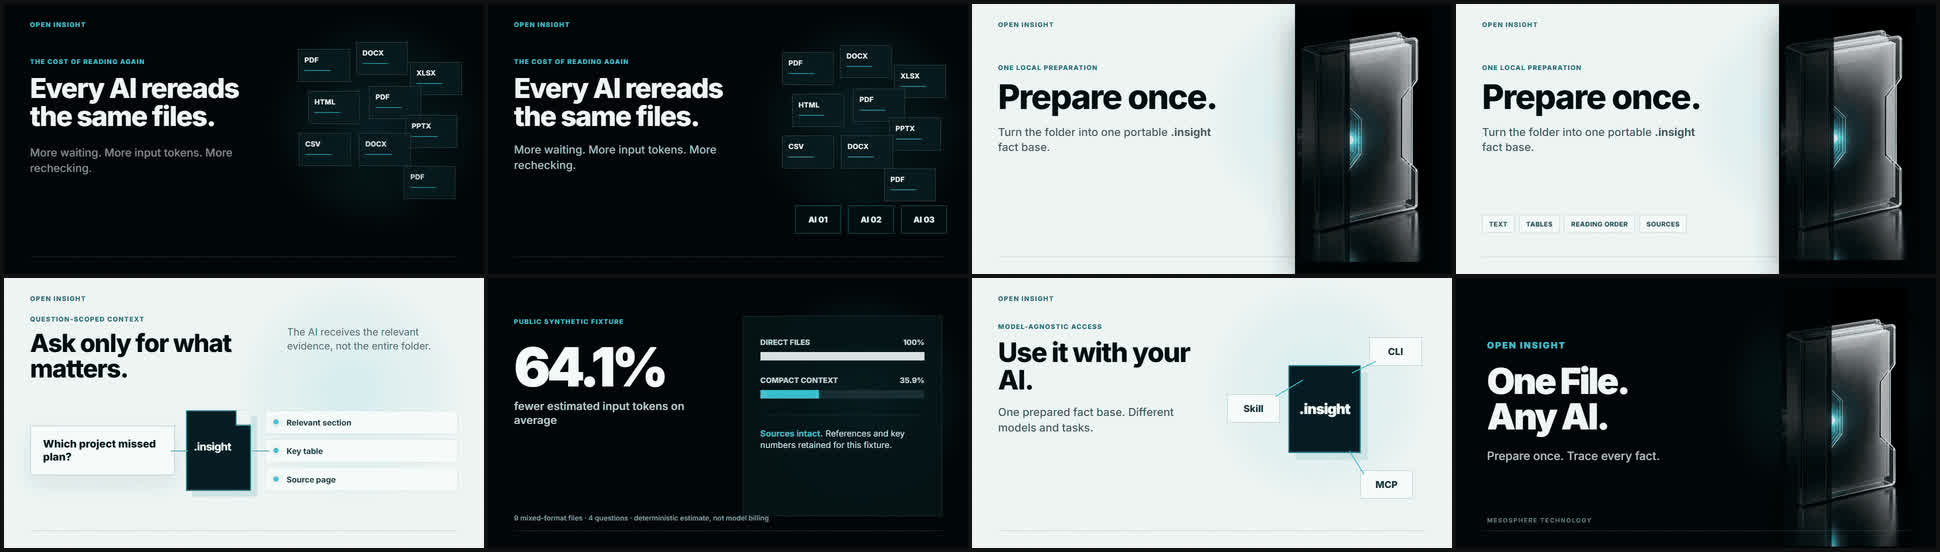
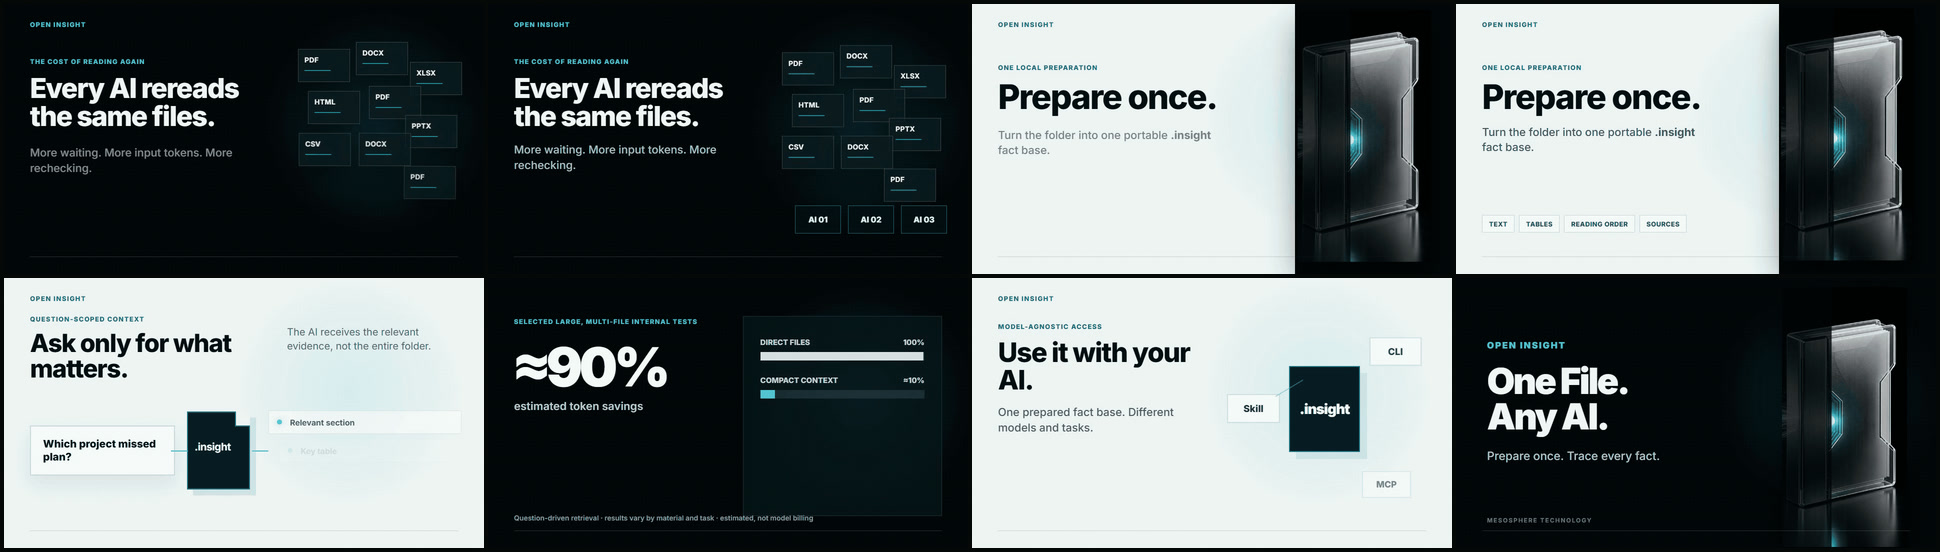
fix: align private alpha token claim

diff --git a/tests/public-core-readme-docs.test.ts b/tests/public-core-readme-docs.test.ts
@@ -54,6 +54,9 @@ describe("public Core English README", () => {
       "run `pip install`",
       "README.zh-CN.md",
       "does not upload source files or call a model on its own",
+      "about 90%",
+      "selected large, multi-file internal tests",
+      "results vary by material and task",
       "64.1% fewer estimated tokens on average",
       "not model billing usage",
       "not a universal savings guarantee",
@@ -80,6 +83,22 @@ describe("public Core English README", () => {
     expect(readme.indexOf("npx @mesospheretech/open-insight")).toBeLessThan(
       readme.indexOf("## The problem it solves")
     );
+  });
+
+  it("keeps the launch-film and public-fixture token statements distinct", async () => {
+    const [readme, demoGuide] = await Promise.all([
+      readPublicReadme(),
+      readFile(path.resolve("docs/public-alpha-demo.md"), "utf8")
+    ]);
+
+    for (const document of [readme, demoGuide]) {
+      expect(document).toContain("selected large, multi-file internal tests");
+      expect(document).toContain("64.1%");
+      expect(document).toContain("not model billing");
+    }
+    expect(readme).toContain("about 90%");
+    expect(demoGuide).toContain("`≈90%`");
+    expect(demoGuide).toContain("separate, narrower benchmark");
   });
 
   it("publishes an independent Chinese Core README instead of private product history", async () => {

diff --git a/docs/public-alpha-demo.md b/docs/public-alpha-demo.md
@@ -51,17 +51,18 @@ Office and PDF files use a stable binary-size heuristic, and the report
 publishes that limitation next to the savings result.
 
 The demo does not prove that an external model will always answer correctly or
-that OCR is complete. A fixed token-savings claim requires larger public
-materials, real tokenizer/API usage, and independently reviewed answer quality.
+that OCR is complete. A universal or independently reproducible benchmark claim
+requires larger public materials, real tokenizer/API usage, and independently
+reviewed answer quality.
 
 ## Visual validation
 
-The repository includes two English-only visual assets generated from the same
-synthetic demo facts:
+The repository includes two English-only visual assets built from product
+visuals and bounded aggregate test statements; they contain no customer material:
 
 - `docs/public/assets/open-insight-alpha-validation.gif`: a 16-second README
   loop covering repeated-reading cost, one-file preparation, targeted evidence
-  retrieval, the bounded public token comparison, and the `One File. Any AI.`
+  retrieval, the bounded launch-film token statement, and the `One File. Any AI.`
   boundary;
 - `docs/public/assets/open-insight-alpha-contact-sheet.jpg`: eight reviewed
   frames from the same 16-second README loop.
@@ -71,3 +72,10 @@ synthetic demo facts:
 The complete MP4 is prepared as a release or launch asset instead of being
 required by the Core runtime. The animation is silent, contains no customer
 material, and does not imply external-model certification.
+
+The GIF's `≈90%` statement matches the international launch film. It refers to
+selected large, multi-file internal tests using question-driven retrieval and is
+an estimated input-token comparison, not model billing or a universal promise;
+results vary by material and task. The reproducible nine-file public fixture
+above remains a separate, narrower benchmark with 64.1% average estimated
+savings across its four fixed questions.

diff --git a/docs/core-oss-alpha-readiness.md b/docs/core-oss-alpha-readiness.md
@@ -92,10 +92,19 @@ Core tests、20 项 Skill/installer tests、2 项 CLI contract tests、密钥扫
 public，`v0.1.0-alpha.3` tag 没有移动。随后在开发提交
 `aea26668a198085ed493aa5d1f0a4d620a26879a` 完成独立英文 GIF 重制：成片为
 960x540、16 秒、10fps，从团队重复读取资料的时间与 token 成本开始，依次展示
-prepare once、按问题读取可追溯证据、公开合成样例的 bounded token proof、
+prepare once、按问题读取可追溯证据、与国际视频一致的 `≈90%` selected
+large, multi-file internal test estimated token statement、
 Skill / CLI / MCP 和 `One File. Any AI.`。同一 GIF 的 8 帧 contact sheet、
 HyperFrames 结构/布局/运动/对比度检查、公开文档测试和密钥扫描均已通过；该媒体
 切片等待同步到下一份仍为 private 的 Core 候选，不改变仓库可见性或 Alpha tag。
+
+同步完成记录：从开发提交 `5a8c5dceb39f9c505e7086d04b287ad7607f2d87`
+生成 170 个 allowlisted 文件，aggregate digest 为
[1 lines of base64/hex data omitted]
+加入生成 manifest 后形成 171 个 Core 跟踪文件。完整公开候选门禁通过后，
+该快照已推送到仍为 private 的 `MesosphereTech/open-insight` `main` 提交
+`522df50c269d7492e8f6e59c46643b8c00bc3f3b`。仓库没有切换为 public，
+`v0.1.0-alpha.3` tag 没有移动。
 
 2026-07-30 从开发提交
 `87f3753c32595b039d474783dfe1082006f16c6a` 重新生成最新干净候选：

diff --git a/docs/public-core-repository-manifest.md b/docs/public-core-repository-manifest.md
@@ -271,12 +271,22 @@ private and `v0.1.0-alpha.3` remains immutable at
 The separate English GIF refresh was completed in private development commit
 `aea26668a198085ed493aa5d1f0a4d620a26879a`. The 960x540, 16-second loop now
 follows the English launch film's value narrative: repeated team rereading cost,
-prepare once, targeted traceable evidence, a bounded synthetic token comparison,
+prepare once, targeted traceable evidence, the launch film's bounded `≈90%`
+selected large, multi-file internal-test statement,
 Skill / CLI / MCP access, and `One File. Any AI.`. Its contact sheet is generated
 from the same final GIF. HyperFrames structure, layout, motion, and contrast checks,
 public documentation tests, and secret scanning passed. This media-only refresh is
 queued for the next private Core candidate and does not change repository visibility
 or move the Alpha tag.
+
+Post-sync record: the reviewed export was regenerated from private development
+commit `5a8c5dceb39f9c505e7086d04b287ad7607f2d87` with 170 allowlisted files.
+Its aggregate digest is
[1 lines of base64/hex data omitted]
+including the generated manifest, the private Core repository tracks 171 files.
+After the full public-candidate verification passed, the snapshot was pushed to
+private Core `main` commit `522df50c269d7492e8f6e59c46643b8c00bc3f3b`.
+Repository visibility remains private and `v0.1.0-alpha.3` remains unchanged.
 
 ### 2026-07-30 private Core main refresh
 

diff --git a/README.md b/README.md
@@ -205,10 +205,14 @@ The demo creates a fictional multi-file project, compiles one `.insight` file, a
 
 Read the [public Alpha demo guide](docs/public-alpha-demo.md).
 
-The short animation above is generated from the same synthetic demo facts. A
-frame-by-frame review sheet is available in the
+The short animation above uses the international launch film's bounded
+`about 90%` statement for selected large, multi-file internal tests. It is an
+estimated question-driven retrieval result, not model billing or a universal
+promise; results vary by material and task. A frame-by-frame review sheet is available in the
 [validation contact sheet](docs/public/assets/open-insight-alpha-contact-sheet.jpg).
-Both assets use synthetic English content only.
+Both assets contain no customer material. The smaller public fixture below is a
+separate reproducible benchmark and therefore reports its own, more conservative
+result.
 
 ### Measured in the synthetic demo
 
